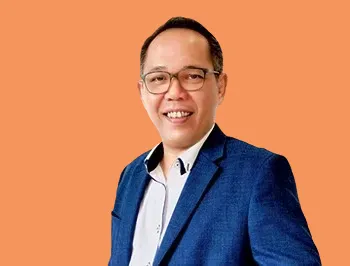
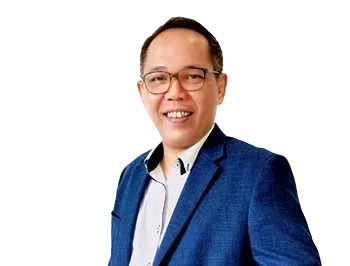
style: apply orange gradient shading to Athasart card and make WebP photo background transparent again

diff --git a/app/[lang]/people/teachers/page.tsx b/app/[lang]/people/teachers/page.tsx
@@ -137,14 +137,14 @@ export default async function TeachersPage({
               key={teacher.id}
               className={`w-full h-[300px] border border-zinc-200 dark:border-zinc-800 overflow-hidden transition-all duration-300 hover:shadow-lg cursor-pointer select-none flex flex-col justify-end relative group ${
                 isAthasart
-                  ? "bg-[#f5945c] hover:shadow-orange-500/20"
+                  ? "bg-gradient-to-b from-[#fbc6a9] to-[#e06e30] hover:shadow-orange-500/20"
                   : "bg-black hover:shadow-black/20 dark:hover:shadow-black/40"
               }`}
             >
               {/* Full Background Portrait Image */}
               {teacher.photo ? (
                 <img
-                  src={`${teacher.photo}?v=7`}
+                  src={`${teacher.photo}?v=8`}
                   alt={name}
                   className="absolute right-0 bottom-0 h-full w-auto object-contain object-right transition-transform duration-500 group-hover:scale-105 translate-x-[15%] z-0"
                 />

diff --git a/components/layout/people-slider.tsx b/components/layout/people-slider.tsx
@@ -197,7 +197,7 @@ export default function PeopleSlider({ lang, title }: PeopleSliderProps) {
             >
               {/* Full Background Portrait Image */}
               <img
-                src={`${person.image}?v=7`}
+                src={`${person.image}?v=8`}
                 alt={lang === "th" ? person.nameTh : person.nameEn}
                 className="absolute inset-0 w-full h-full object-cover transition-transform duration-500 group-hover:scale-105 z-0"
               />